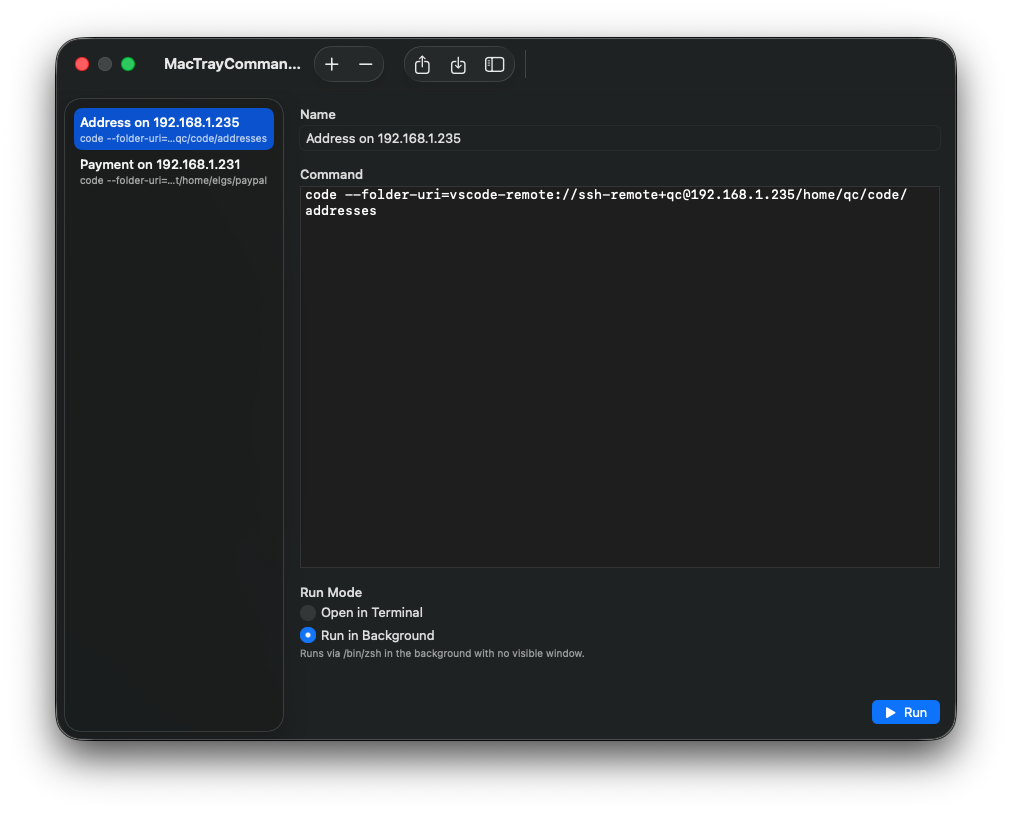
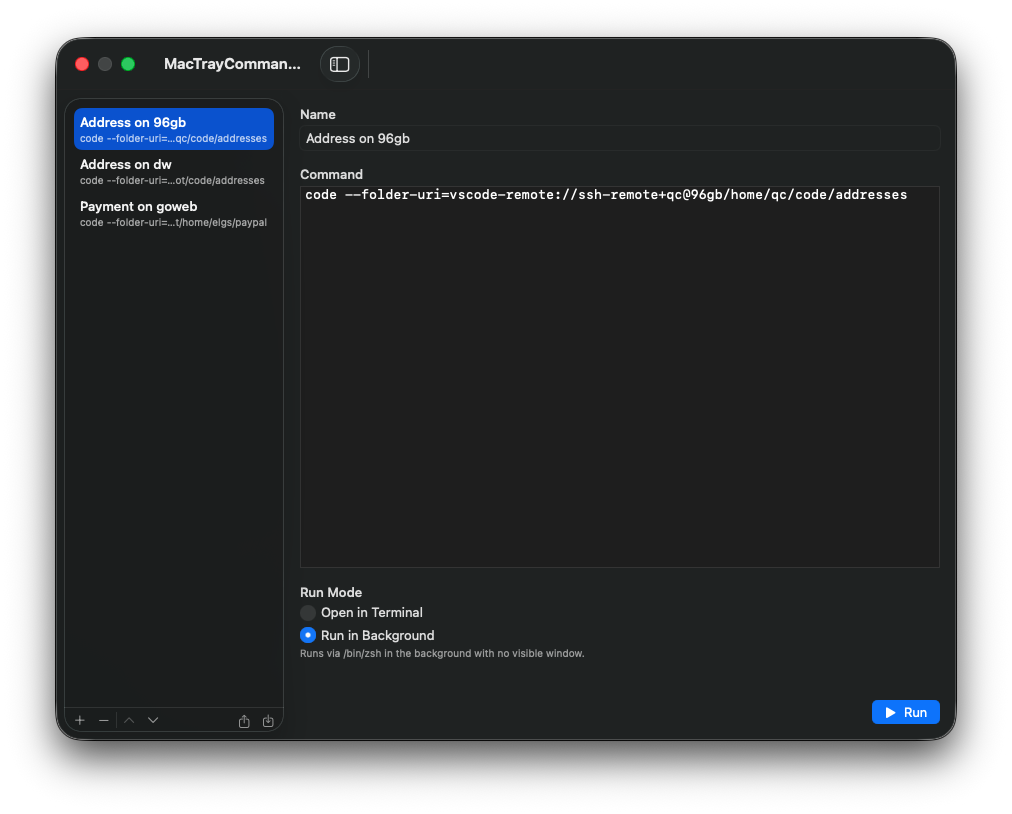
Update.

diff --git a/MacTrayCommands/Views/CommandListView.swift b/MacTrayCommands/Views/CommandListView.swift
@@ -6,41 +6,54 @@ struct CommandListView: View {
     @Binding var selectedID: UUID?
 
     var body: some View {
-        List(store.commands, selection: $selectedID) { command in
-            VStack(alignment: .leading, spacing: 2) {
-                Text(command.name)
-                    .fontWeight(.medium)
-                Text(command.shellCommand)
-                    .font(.caption)
-                    .foregroundStyle(.secondary)
-                    .lineLimit(1)
-                    .truncationMode(.middle)
+        VStack(spacing: 0) {
+            List(store.commands, selection: $selectedID) { command in
+                VStack(alignment: .leading, spacing: 2) {
+                    Text(command.name)
+                        .fontWeight(.medium)
+                    Text(command.shellCommand)
+                        .font(.caption)
+                        .foregroundStyle(.secondary)
+                        .lineLimit(1)
+                        .truncationMode(.middle)
+                }
+                .padding(.vertical, 2)
+                .tag(command.id)
             }
-            .padding(.vertical, 2)
-            .tag(command.id)
-        }
-        .toolbar {
-            ToolbarItemGroup {
-                Button(action: addCommand) {
-                    Image(systemName: "plus")
-                }
-                Button(action: removeSelected) {
-                    Image(systemName: "minus")
-                }
-                .disabled(selectedID == nil)
+
+            Divider()
+
+            HStack(spacing: 0) {
+                bottomButton(action: addCommand, systemImage: "plus")
+                bottomButton(action: removeSelected, systemImage: "minus")
+                    .disabled(selectedID == nil)
+
+                Divider().frame(height: 16)
+
+                bottomButton(action: moveUp, systemImage: "chevron.up")
+                    .disabled(!canMoveUp)
+                bottomButton(action: moveDown, systemImage: "chevron.down")
+                    .disabled(!canMoveDown)
 
                 Spacer()
 
-                Button(action: exportCommands) {
-                    Image(systemName: "square.and.arrow.up")
-                }
-                .help("Export commands")
-                Button(action: importCommands) {
-                    Image(systemName: "square.and.arrow.down")
-                }
-                .help("Import commands")
+                bottomButton(action: exportCommands, systemImage: "square.and.arrow.up")
+                    .help("Export commands")
+                bottomButton(action: importCommands, systemImage: "square.and.arrow.down")
+                    .help("Import commands")
             }
+            .padding(.horizontal, 4)
+            .frame(height: 24)
         }
+    }
+
+    private func bottomButton(action: @escaping () -> Void, systemImage: String) -> some View {
+        Button(action: action) {
+            Image(systemName: systemImage)
+                .font(.system(size: 12))
+                .frame(width: 24, height: 24)
+        }
+        .buttonStyle(.borderless)
     }
 
     private func addCommand() {
@@ -82,6 +95,31 @@ struct CommandListView: View {
             store.add(command)
         }
         selectedID = store.commands.last?.id
+    }
+
+    private var selectedIndex: Int? {
+        guard let id = selectedID else { return nil }
+        return store.commands.firstIndex(where: { $0.id == id })
+    }
+
+    private var canMoveUp: Bool {
+        guard let index = selectedIndex else { return false }
+        return index > 0
+    }
+
+    private var canMoveDown: Bool {
+        guard let index = selectedIndex else { return false }
+        return index < store.commands.count - 1
+    }
+
+    private func moveUp() {
+        guard let index = selectedIndex, index > 0 else { return }
+        store.move(from: index, to: index - 1)
+    }
+
+    private func moveDown() {
+        guard let index = selectedIndex, index < store.commands.count - 1 else { return }
+        store.move(from: index, to: index + 1)
     }
 
     private func removeSelected() {

diff --git a/MacTrayCommands/Stores/CommandStore.swift b/MacTrayCommands/Stores/CommandStore.swift
@@ -46,6 +46,16 @@ final class CommandStore: ObservableObject {
         save()
     }
 
+    func move(from source: Int, to destination: Int) {
+        guard source != destination,
+              source >= 0, source < commands.count,
+              destination >= 0, destination < commands.count
+        else { return }
+        let command = commands.remove(at: source)
+        commands.insert(command, at: destination)
+        save()
+    }
+
     func update(_ command: Command) {
         guard let index = commands.firstIndex(where: { $0.id == command.id }) else { return }
         commands[index] = command
